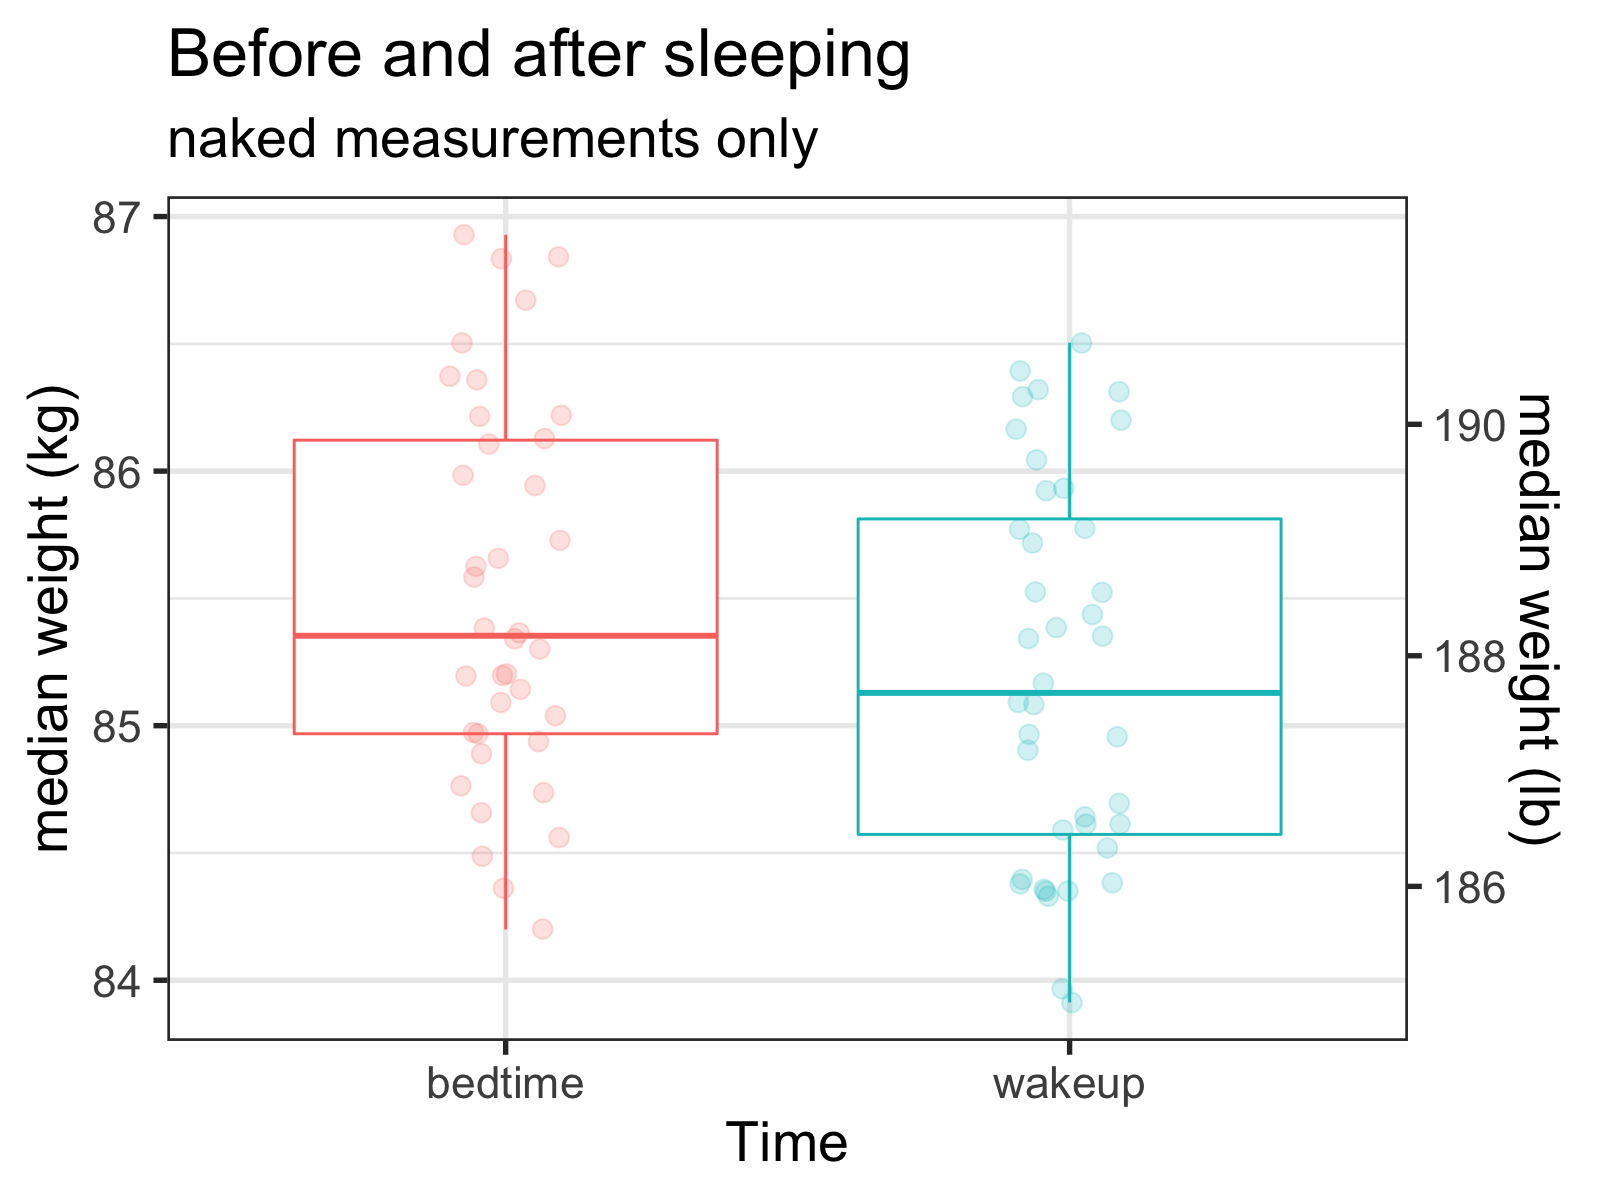
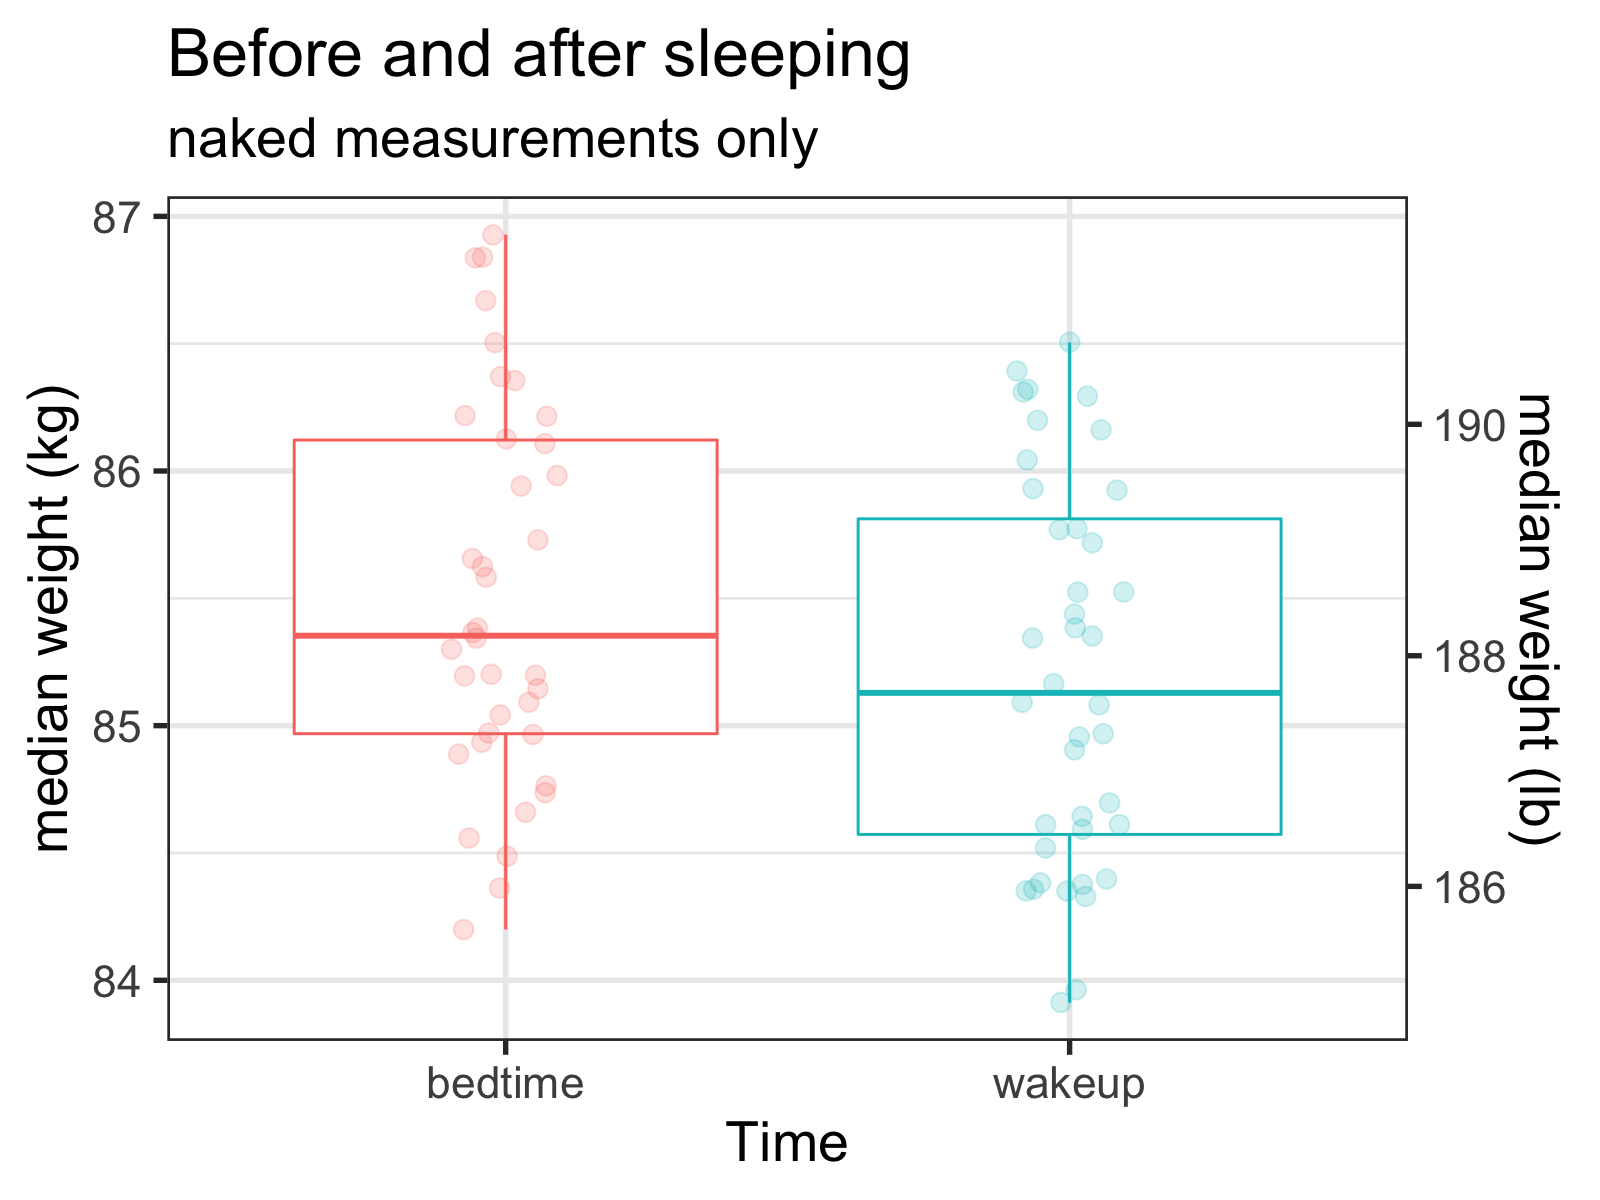
reduced size of skinny weight plot

diff --git a/2020-01-20-weight_analysis_pt_3.md b/2020-01-20-weight_analysis_pt_3.md
@@ -230,7 +230,7 @@ Do I stay in the bathroom longer for bigger BMs?
 
 If Derek and NPR are right, we lose most of the weight lost in sleep through respiration. If this hypothesis is correct, we would expect that longer sleep = more respiration = more weight lost. Is this borne out in the data?
 
-![plot of chunk unnamed-chunk-7](/_posts/figures/generated/source/x2020-01-20-weight_analysis_pt_3/unnamed-chunk-7-1.png)
+<img src="/_posts/figures/generated/source/x2020-01-20-weight_analysis_pt_3/unnamed-chunk-7-1.png" title="plot of chunk unnamed-chunk-7" alt="plot of chunk unnamed-chunk-7" width="40%" />
 
 **Answer: Probably!** The effect is close to significance, which I'll take, and the trend is in the right direction!    
           
